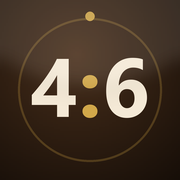
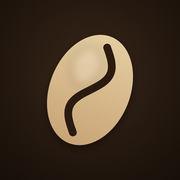
味の方向を修正しアイコンをコーヒー豆に変更
1投目多い=酸味/少ない=甘み(粕谷哲の正しい方向)にホット・アイス両方修正。湯温を焙煎度別(浅93/中88/深83℃)に更新。アイコン/ロゴをコーヒー豆に変更。

diff --git a/index.html b/index.html
@@ -4,7 +4,7 @@
 <meta charset="UTF-8" />
 <meta name="viewport" content="width=device-width, initial-scale=1.0, viewport-fit=cover" />
 <title>4:6 黄金比率コーヒー</title>
-<meta name="description" content="豆量・味・濃さを選ぶだけ。粕谷哲の4:6メソッド（ホット／急冷式アイス）の注湯スケジュールが一瞬で出る、音声ガイド付きコーヒーアプリ。" />
+<meta name="description" content="豆量・味・濃さを選ぶだけ。粕谷哲の4:6メソッド（ホット／急冷式アイス）の注湯スケジュールが一瞬で出る、ガイドタイマー付きコーヒーアプリ。" />
 
 <!-- PWA -->
 <link rel="manifest" href="manifest.webmanifest" />
@@ -59,7 +59,7 @@
     --shadow:0 10px 30px rgba(20,50,60,.12), 0 2px 8px rgba(20,50,60,.07);
     --shadow-sm:0 4px 14px rgba(20,50,60,.09);
   }
-  *{box-sizing:border-box;-webkit-tap-highlight-color:transparent;}
+  *{box-sizing:border-box;-webkit-tap-highlight-color:transparent;touch-action:manipulation;} /* ピンチ拡大は残し、ダブルタップ拡大だけ抑制 */
   html,body{margin:0;padding:0;}
   body{
     font-family:-apple-system,BlinkMacSystemFont,"Hiragino Sans","Hiragino Kaku Gothic ProN","Noto Sans JP","Segoe UI",sans-serif;
@@ -89,6 +89,7 @@
   .land .logo b{font-size:30px;font-weight:800;letter-spacing:.5px;}
   .land .logo .cc{color:#C8A24B;margin:0 1px;}
   .land .logo .c4,.land .logo .c6{color:#F3E7D2;}
+  .land .logo .bean{width:48px;height:48px;display:block;}
   .land h1{font-size:21px;font-weight:800;margin:0;letter-spacing:.4px;color:#2A1B11;}
   .land .sub{font-size:12.5px;color:#9a8a76;font-weight:700;letter-spacing:1.5px;margin-top:5px;}
   .land .q{font-size:14px;color:#7a6a58;font-weight:700;margin:30px 0 16px;text-align:center;}
@@ -131,10 +132,16 @@
   .step-btn{width:58px;height:58px;border-radius:50%;flex:none;background:var(--card-soft);border:1.5px solid var(--line-strong);display:grid;place-items:center;color:var(--coffee-deep);font-size:28px;font-weight:500;line-height:1;transition:transform .08s ease, background .15s ease, opacity .15s ease;box-shadow:0 2px 6px rgba(60,40,22,.06);}
   .step-btn:not(:disabled):active{transform:scale(.92);}
   .step-btn:disabled{opacity:.34;box-shadow:none;cursor:default;}
-  .bean-val{display:flex;flex-direction:column;align-items:center;line-height:1;}
+  .bean-val{display:flex;flex-direction:column;align-items:center;line-height:1;margin:2px 0 2px;}
   .bean-val .v{font-size:54px;font-weight:800;letter-spacing:-1px;}
   .bean-val .v small{font-size:22px;font-weight:700;color:var(--ink-soft);margin-left:3px;}
   .bean-val .u{font-size:12px;color:var(--ink-soft);font-weight:700;letter-spacing:.6px;margin-top:7px;}
+  .stepper{display:flex;gap:10px;margin-top:16px;}
+  .sgrp{display:flex;gap:6px;flex:1;}
+  .sbtn{flex:1;min-height:50px;border-radius:13px;background:var(--card-soft);border:1.5px solid var(--line-strong);color:var(--coffee-deep);font-size:15px;font-weight:800;line-height:1;font-variant-numeric:tabular-nums;box-shadow:0 2px 6px rgba(60,40,22,.06);transition:transform .08s ease,background .15s ease,opacity .15s ease;}
+  .sbtn:not(:disabled):active{transform:scale(.91);background:#F1E7D6;}
+  .sbtn:disabled{opacity:.3;box-shadow:none;cursor:default;}
+  .sbtn.one{font-size:16px;}
   .presets{display:flex;gap:8px;margin-top:16px;}
   .preset{flex:1;min-height:44px;padding:6px 0;border-radius:11px;background:var(--card-soft);border:1.5px solid var(--line);font-size:14px;font-weight:700;color:var(--ink-soft);transition:all .12s ease;}
   .preset[aria-checked="true"]{background:var(--coffee);color:#fff;border-color:var(--coffee);box-shadow:0 4px 12px rgba(60,40,22,.22);}
@@ -176,14 +183,9 @@
   .brew-note{margin-top:12px;padding-top:12px;border-top:1px dashed var(--line-strong);font-size:11.5px;line-height:1.6;color:var(--ink-faint);font-weight:600;display:flex;gap:7px;align-items:flex-start;}
   .brew-note .ic{flex:none;}
 
-  /* ---------- Bottom dock (audio + start) ---------- */
+  /* ---------- Bottom dock (start) ---------- */
   .dock{position:fixed;left:0;right:0;bottom:0;z-index:30;padding:12px 18px calc(var(--safe-bottom) + 14px);background:linear-gradient(to top,var(--bg-grad-b) 66%,rgba(239,230,215,0));pointer-events:none;}
   .dock-inner{max-width:480px;margin:0 auto;pointer-events:auto;}
-  .audio-row{display:flex;align-items:center;gap:10px;margin-bottom:11px;background:var(--card);border-radius:14px;padding:8px 8px 8px 14px;box-shadow:var(--shadow-sm);border:1px solid var(--line);}
-  .audio-row .al{font-size:11.5px;font-weight:700;color:var(--ink-soft);flex:none;letter-spacing:.3px;}
-  .audio-seg{display:flex;gap:6px;margin-left:auto;}
-  .audio-seg button{padding:8px 13px;border-radius:10px;font-size:12.5px;font-weight:800;background:var(--card-soft);border:1.5px solid var(--line);color:var(--ink-soft);}
-  .audio-seg button[aria-checked="true"]{background:var(--coffee);color:#fff;border-color:var(--coffee);}
   .brew-btn{width:100%;min-height:56px;padding:18px;border-radius:18px;background:linear-gradient(155deg,var(--btn-a),var(--btn-b));color:#fff;font-size:18px;font-weight:800;letter-spacing:2px;box-shadow:0 12px 26px rgba(40,30,20,.32),inset 0 1px 0 rgba(255,255,255,.14);display:flex;align-items:center;justify-content:center;gap:10px;transition:transform .08s ease;}
   .brew-btn:active{transform:translateY(2px) scale(.99);}
   .brew-btn .play{font-size:15px;}
@@ -241,7 +243,7 @@
 <div class="screen active" id="landing">
   <div class="land">
     <div class="brand">
-      <div class="logo" aria-hidden="true"><b><span class="c4">4</span><span class="cc">:</span><span class="c6">6</span></b></div>
+      <div class="logo" aria-hidden="true"><svg class="bean" viewBox="0 0 100 100"><g transform="rotate(-22 50 50)"><ellipse cx="50" cy="50" rx="26" ry="37" fill="#E9D4AA"/><path d="M50 16 C 62 35, 38 65, 50 84" fill="none" stroke="#2A1B10" stroke-width="6.5" stroke-linecap="round"/></g></svg></div>
       <h1>4:6 黄金比率コーヒー</h1>
       <div class="sub">KASUYA 4:6 METHOD</div>
     </div>
@@ -275,13 +277,21 @@
 
     <section class="card">
       <div class="lbl"><span class="dot"></span>豆の量</div>
-      <div class="bean">
-        <button class="step-btn" id="minus" aria-label="豆を1g減らす">−</button>
-        <div class="bean-val">
-          <div class="v num"><span id="beanVal">20</span><small>g</small></div>
-          <div class="u" id="waterLine">お湯 <span id="waterVal" class="num">300</span>g</div>
+      <div class="bean-val">
+        <div class="v num"><span id="beanVal">20</span><small>g</small></div>
+        <div class="u" id="waterLine">お湯 <span class="num">300</span>g</div>
+      </div>
+      <div class="stepper" id="stepper">
+        <div class="sgrp">
+          <button class="sbtn minus" data-d="-10" aria-label="10g減らす">−10</button>
+          <button class="sbtn minus" data-d="-5" aria-label="5g減らす">−5</button>
+          <button class="sbtn minus one" data-d="-1" aria-label="1g減らす">−1</button>
         </div>
-        <button class="step-btn" id="plus" aria-label="豆を1g増やす">+</button>
+        <div class="sgrp">
+          <button class="sbtn plus one" data-d="1" aria-label="1g増やす">＋1</button>
+          <button class="sbtn plus" data-d="5" aria-label="5g増やす">＋5</button>
+          <button class="sbtn plus" data-d="10" aria-label="10g増やす">＋10</button>
+        </div>
       </div>
       <div class="presets" id="presets" role="radiogroup" aria-label="豆の量プリセット">
         <button class="preset" role="radio" aria-checked="false" data-g="12">12g</button>
@@ -322,13 +332,6 @@
 <!-- Bottom dock -->
 <div class="dock" id="dock" style="display:none;">
   <div class="dock-inner">
-    <div class="audio-row">
-      <span class="al">通知</span>
-      <div class="audio-seg" id="audioSeg" role="radiogroup" aria-label="通知の方法">
-        <button role="radio" aria-checked="true" data-audio="chime">🔔 チャイム</button>
-        <button role="radio" aria-checked="false" data-audio="voice">🗣 声ガイド</button>
-      </div>
-    </div>
     <button class="brew-btn" id="brewBtn"><span class="play" aria-hidden="true">▶</span> スタート</button>
   </div>
 </div>
@@ -375,11 +378,10 @@
 (function(){
   "use strict";
   var MIN=8, MAX=60;
-  var TASTES={acidic:1,balance:1,sweet:1}, STR={light:1,strong:1}, MODES={hot:1,ice:1}, AUDIO={chime:1,voice:1};
-  var NUMJP=['','一','二','三','四','五','六','七'];
+  var TASTES={acidic:1,balance:1,sweet:1}, STR={light:1,strong:1}, MODES={hot:1,ice:1};
 
   var state = {
-    mode:'hot', audio:'chime',
+    mode:'hot',
     hot:{beans:20,taste:'balance',strength:'strong'},
     ice:{beans:20,taste:'balance',strength:'strong'}
   };
@@ -389,7 +391,6 @@
   try{
     var sv=JSON.parse(localStorage.getItem('coffee46_v2')||'null');
     if(sv && typeof sv==='object'){
-      if(AUDIO[sv.audio]) state.audio=sv.audio;
       ['hot','ice'].forEach(function(m){
         if(sv[m]){ state[m].beans=clampBeans(sv[m].beans); if(TASTES[sv[m].taste])state[m].taste=sv[m].taste; if(STR[sv[m].strength])state[m].strength=sv[m].strength; }
       });
@@ -405,11 +406,11 @@
   function recipe(mode){
     var s=state[mode], B=s.beans, first, back, times, drawdown, round, water, ice;
     if(mode==='hot'){
-      first = s.taste==='acidic'?[2*B,4*B]:s.taste==='sweet'?[4*B,2*B]:[3*B,3*B];
+      first = s.taste==='acidic'?[4*B,2*B]:s.taste==='sweet'?[2*B,4*B]:[3*B,3*B];
       back  = s.strength==='light'?[4.5*B,4.5*B]:[3*B,3*B,3*B];
       times=[0,45,90,135,180]; drawdown=s.strength==='light'?75:45; round=0.5; water=15*B; ice=0;
     } else {
-      first = s.taste==='acidic'?[1*B,2*B]:s.taste==='sweet'?[2*B,1*B]:[1.5*B,1.5*B];
+      first = s.taste==='acidic'?[2*B,1*B]:s.taste==='sweet'?[1*B,2*B]:[1.5*B,1.5*B];
       back  = s.strength==='light'?[2.25*B,2.25*B]:[1.5*B,1.5*B,1.5*B];
       times=[0,40,70,100,130]; drawdown=50; round=1; water=7.5*B; ice=4*B;
     }
@@ -450,28 +451,25 @@
     }
     $('schedList').innerHTML=html;
     $('brewNote').textContent = r.mode==='ice'
-      ? '先にサーバーへ氷'+fmt(r.ice)+'g。湯温90℃以上・中粗〜粗挽き。蒸らし40秒→30秒ごとに累計gまで。淹れ終えたらサーバーを混ぜて急冷。'
-      : '湯温 中煎り90〜93℃／深煎り83〜88℃・粉は中粗挽き。45秒ごとに累計gまで注ぐ。';
+      ? '先にサーバーへ氷'+fmt(r.ice)+'g。湯温90℃以上・中挽き〜中粗挽き。蒸らし40秒→30秒ごとに累計gまで。淹れ終えたらサーバーを混ぜて急冷。'
+      : '湯温 浅煎り約93℃／中煎り約88℃／深煎り約83℃・粉は中粗挽き。45秒ごとに累計gまで注ぐ。';
     save();
   }
 
   // ---------- Controls ----------
   function cur(){ return state[state.mode]; }
-  function updateBounds(){ $('minus').disabled=cur().beans<=MIN; $('plus').disabled=cur().beans>=MAX; }
+  function updateBounds(){ var b=cur().beans; document.querySelectorAll('#stepper .minus').forEach(function(x){x.disabled=b<=MIN;}); document.querySelectorAll('#stepper .plus').forEach(function(x){x.disabled=b>=MAX;}); }
   function setBean(g){ var nv=clampBeans(g), ch=nv!==cur().beans; cur().beans=nv; syncPresets(); updateBounds(); renderSched(); return ch; }
   function syncPresets(){ document.querySelectorAll('#presets .preset').forEach(function(p){ p.setAttribute('aria-checked', (+p.dataset.g===cur().beans)?'true':'false'); }); }
-  $('minus').addEventListener('click',function(){ if(setBean(cur().beans-1)) haptic(8); });
-  $('plus').addEventListener('click',function(){ if(setBean(cur().beans+1)) haptic(8); });
+  document.querySelectorAll('#stepper .sbtn').forEach(function(b){ b.addEventListener('click',function(){ if(setBean(cur().beans + (+b.dataset.d))) haptic(8); }); });
   document.querySelectorAll('#presets .preset').forEach(function(b){ b.addEventListener('click',function(){ if(setBean(+b.dataset.g)) haptic(10); }); });
   document.querySelectorAll('#tasteSeg .opt').forEach(function(b){ b.addEventListener('click',function(){ cur().taste=b.dataset.taste; document.querySelectorAll('#tasteSeg .opt').forEach(function(x){x.setAttribute('aria-checked',x===b?'true':'false');}); renderSched(); haptic(10); }); });
   document.querySelectorAll('#strengthSeg .opt').forEach(function(b){ b.addEventListener('click',function(){ cur().strength=b.dataset.strength; document.querySelectorAll('#strengthSeg .opt').forEach(function(x){x.setAttribute('aria-checked',x===b?'true':'false');}); renderSched(); haptic(10); }); });
-  document.querySelectorAll('#audioSeg button').forEach(function(b){ b.addEventListener('click',function(){ state.audio=b.dataset.audio; document.querySelectorAll('#audioSeg button').forEach(function(x){x.setAttribute('aria-checked',x===b?'true':'false');}); save(); haptic(8); if(state.audio==='voice'){ ensureAudio(); primeVoice(); } }); });
 
   function syncControls(){
     var s=cur();
     document.querySelectorAll('#tasteSeg .opt').forEach(function(x){x.setAttribute('aria-checked',x.dataset.taste===s.taste?'true':'false');});
     document.querySelectorAll('#strengthSeg .opt').forEach(function(x){x.setAttribute('aria-checked',x.dataset.strength===s.strength?'true':'false');});
-    document.querySelectorAll('#audioSeg button').forEach(function(x){x.setAttribute('aria-checked',x.dataset.audio===state.audio?'true':'false');});
     syncPresets(); updateBounds();
   }
 
@@ -506,7 +504,7 @@
   $('pickIce').addEventListener('click',function(){ pushScreen({screen:'setup',mode:'ice'}, function(){ showSetupOnly('ice'); }); });
   $('backBtn').addEventListener('click', goBack);
 
-  // ---------- Audio: chime + voice ----------
+  // ---------- Audio: chime ----------
   var audioCtx=null;
   function ensureAudio(){ if(!audioCtx){ try{ audioCtx=new (window.AudioContext||window.webkitAudioContext)(); }catch(e){} } if(audioCtx&&(audioCtx.state==='suspended'||audioCtx.state==='interrupted')){ try{ audioCtx.resume(); }catch(e){} } }
   function bell(freq,start,dur,vol){
@@ -529,25 +527,12 @@
     else if(type==='done'){ bell(523.25,0,0.8,0.18); bell(659.25,0.12,0.9,0.17); bell(783.99,0.24,1.0,0.17); bell(1046.5,0.36,1.5,0.17); }
     else { bell(783.99,0,0.66,0.20); bell(1174.7,0.085,0.78,0.14); } // gentle G5+D6
   }
-  // voice
-  var voices=[], jaVoice=null;
-  function loadVoices(){ try{ voices=speechSynthesis.getVoices(); jaVoice = voices.filter(function(v){return /ja(-|_)?JP/i.test(v.lang);})[0] || voices.filter(function(v){return /Japanese|Kyoko|O-ren|Hattori|Otoya/i.test(v.name||'');})[0] || null; }catch(e){} }
-  if('speechSynthesis' in window){ loadVoices(); try{ speechSynthesis.onvoiceschanged=loadVoices; }catch(e){} }
-  function speak(text){ if(!('speechSynthesis' in window)) return; try{ var u=new SpeechSynthesisUtterance(text); u.lang='ja-JP'; if(jaVoice)u.voice=jaVoice; u.rate=1.02; u.pitch=1.05; u.volume=1; speechSynthesis.speak(u); }catch(e){} }
-  function primeVoice(){ if(!('speechSynthesis' in window)) return; try{ var u=new SpeechSynthesisUtterance('　'); u.volume=0; speechSynthesis.speak(u); }catch(e){} }
   function haptic(ms){ if(navigator.vibrate){ try{ navigator.vibrate(ms); }catch(e){} } }
 
   function cue(row,isLast){
     ensureAudio(); // self-heal AudioContext if iOS suspended it during a lock
     chime(isLast?'last':'pour');
     haptic([0,60,40,90]);
-    if(state.audio==='voice'){
-      var w;
-      if(row.idx===1) w = (T.recipe.mode==='ice') ? '一投目、氷を入れて蒸らし' : '一投目、蒸らし';
-      else w = (NUMJP[row.idx]||row.idx)+'投目';
-      if(isLast) w += '、これで最後です';
-      speak(w);
-    }
   }
 
   // ---------- Timer engine (wall-clock) ----------
@@ -571,7 +556,6 @@
     if(T.raf){ cancelAnimationFrame(T.raf); T.raf=null; }
     releaseWake();
     ensureAudio(); chime('done'); haptic([0,80,50,80,50,120]);
-    if(state.audio==='voice') speak(T.recipe.mode==='ice'?'完成。サーバーを混ぜて、氷で冷やしてください':'完成です。最後まで落としきってください');
     $('timer').classList.add('done'); $('ringProg').style.strokeDashoffset=0;
     var ice=T.recipe.mode==='ice';
     $('ringCenter').innerHTML='<div class="done-emoji" aria-hidden="true">'+(ice?'🧊':'☕')+'</div><div class="target" style="font-size:30px;margin-top:10px;letter-spacing:0;">できあがり</div><div class="delta">'+(ice?'お湯'+fmt(T.recipe.water)+'g＋氷'+fmt(T.recipe.ice)+'g':'お湯 '+fmt(T.recipe.water)+'g・'+T.steps.length+'投')+'</div><div class="action">'+(ice?'サーバーを混ぜて急冷してどうぞ':'最後まで落としきってどうぞ')+'</div>';
@@ -592,8 +576,7 @@
     T.raf=requestAnimationFrame(tick);
   }
   function startTimer(){
-    try{speechSynthesis.cancel();}catch(e){} // clear any pending speech from a prior run
-    ensureAudio(); if(state.audio==='voice') primeVoice();
+    ensureAudio();
     T.recipe=recipe(state.mode);
     var b=buildSteps(T.recipe); T.steps=b.steps; T.total=b.total;
     T.running=true; T.paused=false; T.stepIdx=-1; T.brewStart=performance.now();
@@ -614,7 +597,7 @@
     else { ensureAudio(); T.brewStart+=(performance.now()-T.pauseAt); T.paused=false; $('pauseBtn').textContent='一時停止'; if(!T.raf) T.raf=requestAnimationFrame(tick); }
   }
   function openTimerUI(){ T.prevFocus=document.activeElement; $('timer').classList.add('show'); setInert(true); startTimer(); try{$('closeTimer').focus();}catch(e){} }
-  function closeTimerUI(){ T.running=false; T.paused=false; T.stepIdx=-1; if(T.raf){cancelAnimationFrame(T.raf);T.raf=null;} releaseWake(); try{speechSynthesis.cancel();}catch(e){} $('timer').classList.remove('show'); $('timer').classList.remove('done'); setInert(false); try{ if(T.prevFocus&&T.prevFocus.focus) T.prevFocus.focus(); }catch(e){} }
+  function closeTimerUI(){ T.running=false; T.paused=false; T.stepIdx=-1; if(T.raf){cancelAnimationFrame(T.raf);T.raf=null;} releaseWake(); $('timer').classList.remove('show'); $('timer').classList.remove('done'); setInert(false); try{ if(T.prevFocus&&T.prevFocus.focus) T.prevFocus.focus(); }catch(e){} }
   function setInert(on){ ['landing','setup','dock','a2hs'].forEach(function(id){ var el=$(id); if(!el)return; if(on){el.setAttribute('inert','');el.setAttribute('aria-hidden','true');} else {el.removeAttribute('inert');el.removeAttribute('aria-hidden');} }); }
   $('brewBtn').addEventListener('click',function(){ pushScreen({screen:'timer'}, showTimerOnly); });
   $('closeTimer').addEventListener('click', goBack);
@@ -622,7 +605,7 @@
   // ---------- Wake lock ----------
   function requestWake(){ try{ if('wakeLock' in navigator && !T.wakeLock){ navigator.wakeLock.request('screen').then(function(w){T.wakeLock=w; w.addEventListener('release',function(){T.wakeLock=null;});}).catch(function(){}); } }catch(e){} }
   function releaseWake(){ try{ if(T.wakeLock){T.wakeLock.release();T.wakeLock=null;} }catch(e){} }
-  document.addEventListener('visibilitychange',function(){ if(document.visibilityState==='visible'&&T.running&&!T.paused){ ensureAudio(); if(state.audio==='voice'){ try{speechSynthesis.resume();}catch(e){} primeVoice(); } requestWake(); if(T.raf)cancelAnimationFrame(T.raf); T.raf=requestAnimationFrame(tick); } });
+  document.addEventListener('visibilitychange',function(){ if(document.visibilityState==='visible'&&T.running&&!T.paused){ ensureAudio(); requestWake(); if(T.raf)cancelAnimationFrame(T.raf); T.raf=requestAnimationFrame(tick); } });
 
   // ---------- A2HS ----------
   (function(){

diff --git a/sw.js b/sw.js
@@ -1,5 +1,5 @@
 /* 4:6 黄金比率コーヒー — Service Worker (offline app shell) */
-const CACHE = 'coffee46-v5';
+const CACHE = 'coffee46-v9';
 
 // Critical shell — must be cached for the app to work offline.
 const SHELL = [
